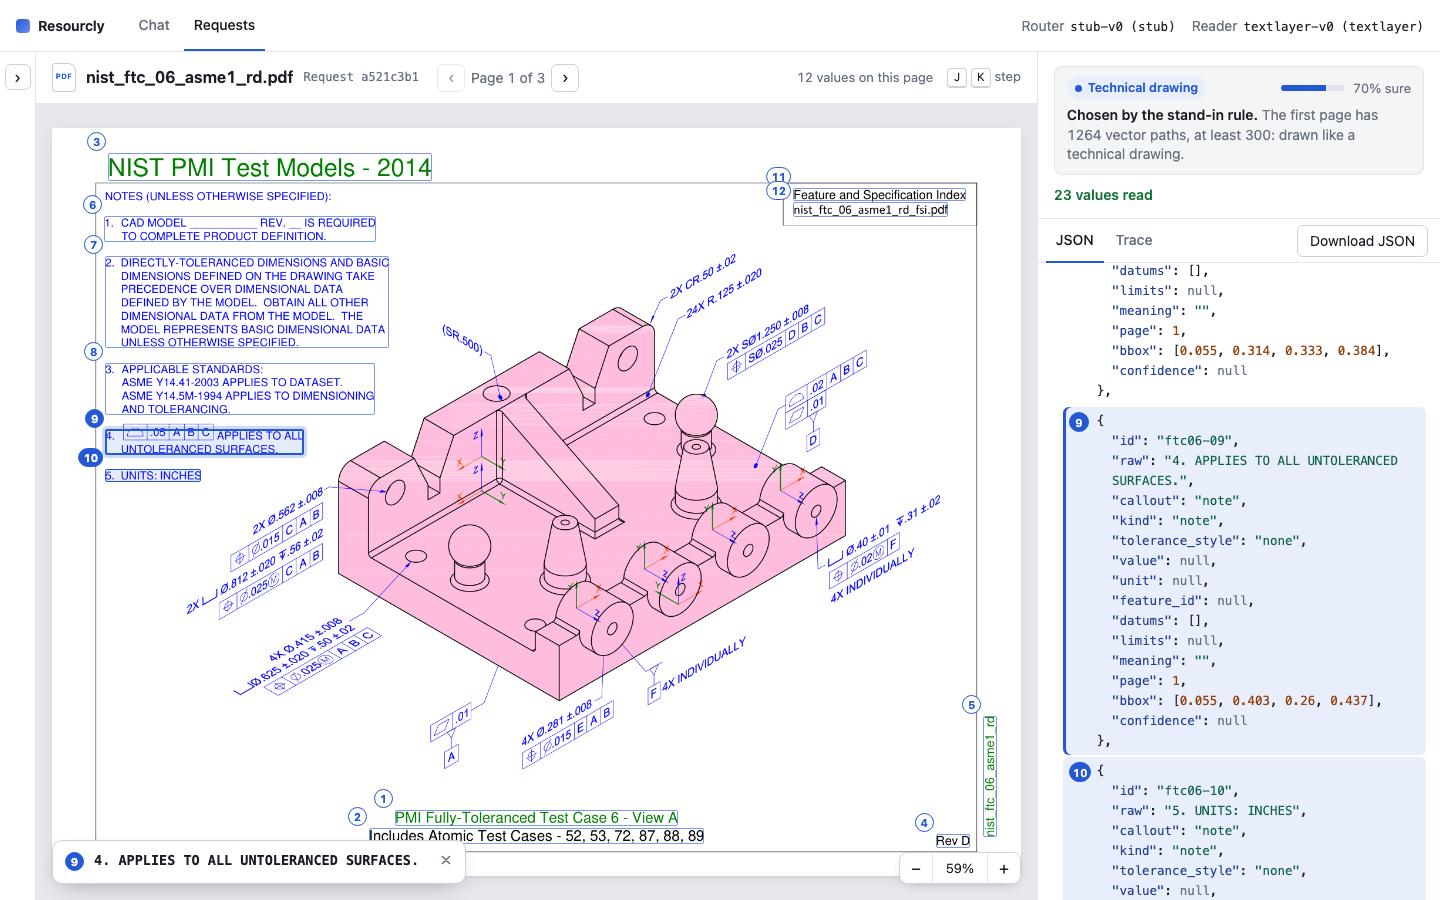
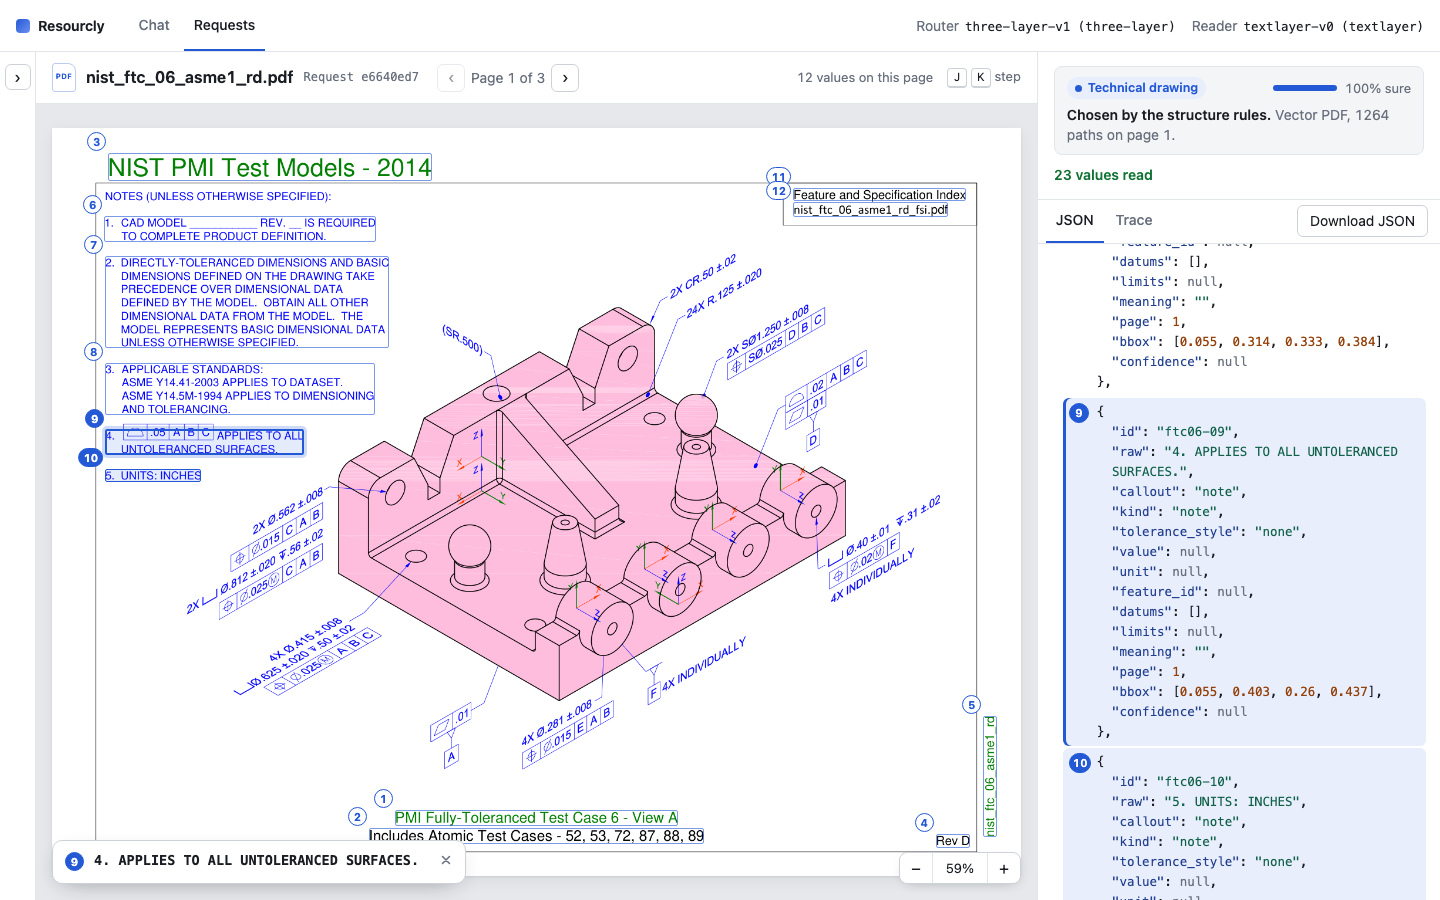
docs(chat): screenshots on the three-layer router
The router default is now three-layer-v1, so the screenshots are
retaken on it, the trace one on a photographed drawing that the
structure rules pass on and the probe decides. The start section says
what the default needs and how to run without models.

diff --git a/docs/chat-ui.md b/docs/chat-ui.md
@@ -14,8 +14,9 @@ uv run resourcly serve   # http://127.0.0.1:8000
 ```
 
 `serve` serves the built screen and the API on one port, or the API alone until it is built.
-`RESOURCLY_CHAT_UI_DIST` points it at another build. The label screen stays on
-`uv run resourcly annotation-ui`.
+It routes with the default `three-layer-v1` router, which needs the extras and models in
+[usage.md](usage.md); `RESOURCLY_ROUTER_VERSION=stub-v0` needs none. `RESOURCLY_CHAT_UI_DIST`
+points it at another build. The label screen stays on `uv run resourcly annotation-ui`.
 
 To work on the screen, run the API and the Vite dev server side by side. Vite reloads on each
 edit and sends every `/api` call to the API.
@@ -38,7 +39,7 @@ A drawing shows its page with a box on each callout as it is read, then buttons 
 download its JSON. A photo or a text question gets a reply that the answer is not available yet,
 and a file that fits no case gets a reply that says so. Click a page to open the file.
 
-![A bulk upload of seven files](img/chat-ui/bulk-upload.png)
+![A bulk upload of six files](img/chat-ui/bulk-upload.png)
 
 ## Requests
 
@@ -54,7 +55,7 @@ routing step is every router layer asked: whether it decided or passed the file 
 was, and why. For a bulk upload it starts on the open file's steps. The same trace is in a
 terminal with `uv run resourcly request <id>`.
 
-![The trace of one file, with the router's verdict](img/chat-ui/request-trace.png)
+![A photographed drawing: the structure rules pass it on, the probe decides](img/chat-ui/request-trace.png)
 
 The request list folds away while a file is open; the arrow on the left brings it back. Its box
 finds a request by its id or the start of it, even one too old for the list. Both screens poll
